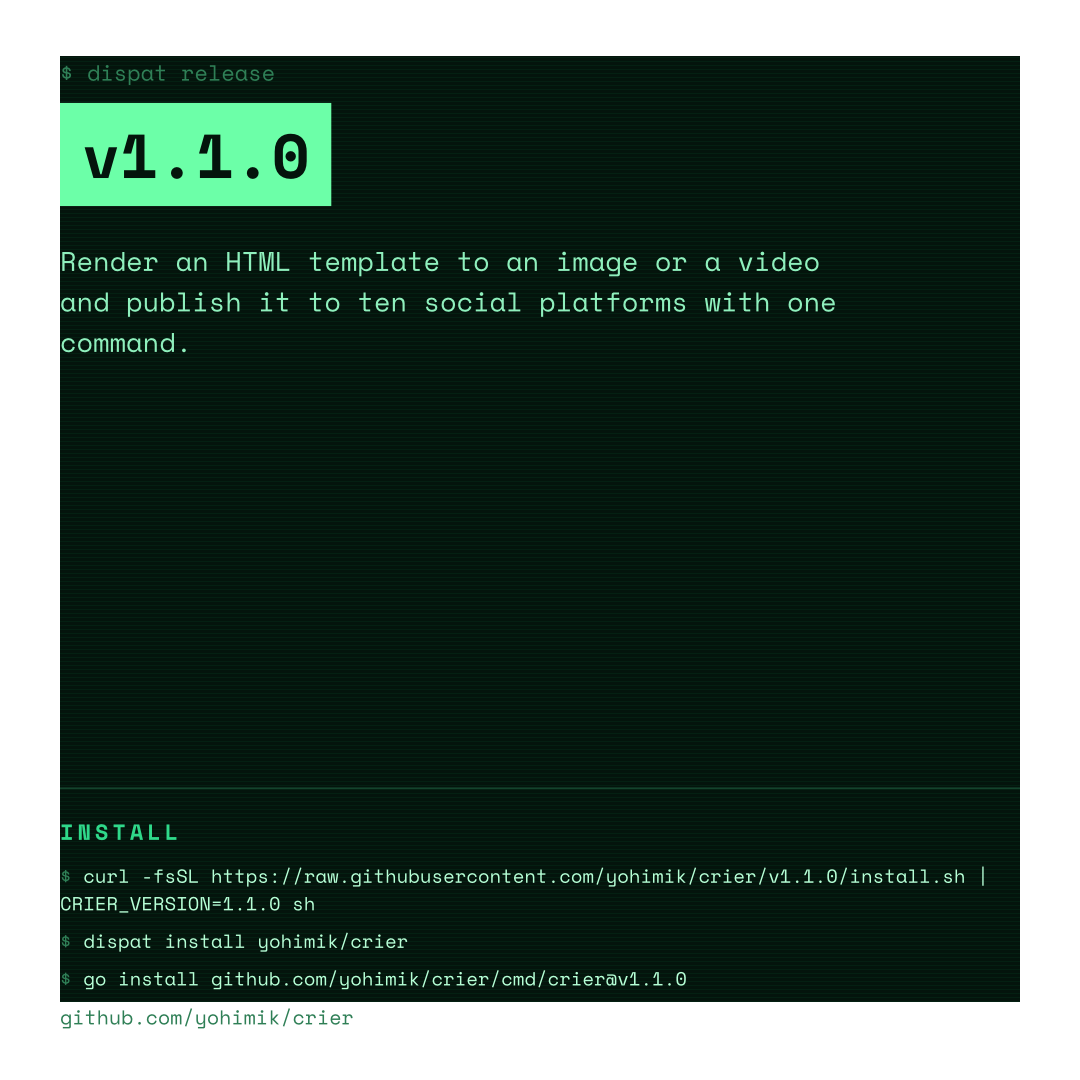
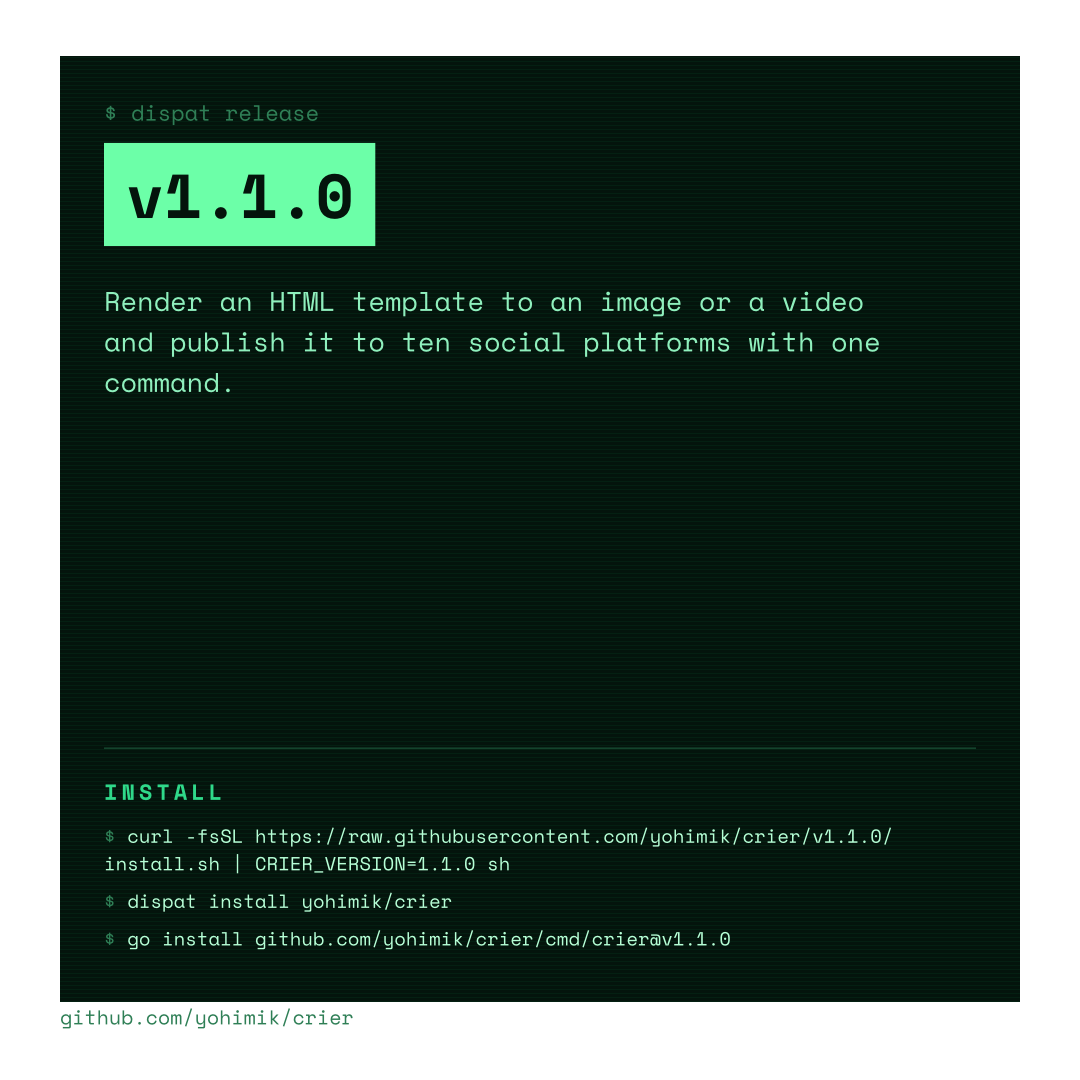
fix(crier): green padding between the text and the page margin
Type sat flush against the white frame on every page. The panel now
extends past the text, and the cover height subtracts the padding it
gained.

Changed region(s): [[0.0306, 0.0611, 0.825, 0.3667], [0.0611, 0.7028, 0.8861, 0.9167], [0.7028, 0.2139, 0.7333, 0.2444]]

diff --git a/announce/template.html b/announce/template.html
@@ -76,6 +76,10 @@
   }
   body {
     margin: 0;
+    /* Green padding between the text and the page margin: the near-black
+       panel extends past the text on every page, so type never sits against
+       the white frame. The cover height below subtracts it. */
+    padding: 40px 44px;
     font-family: "Space Mono", monospace;
     color: #6cffa8;
   }
@@ -85,7 +89,8 @@
      what pushes the changelog onto page two. */
   .cover {
     position: relative;
-    height: 946px;
+    /* 1080 less the page margins (56 + 78), less the body padding (40 + 40). */
+    height: 866px;
     break-after: page;
   }
 
